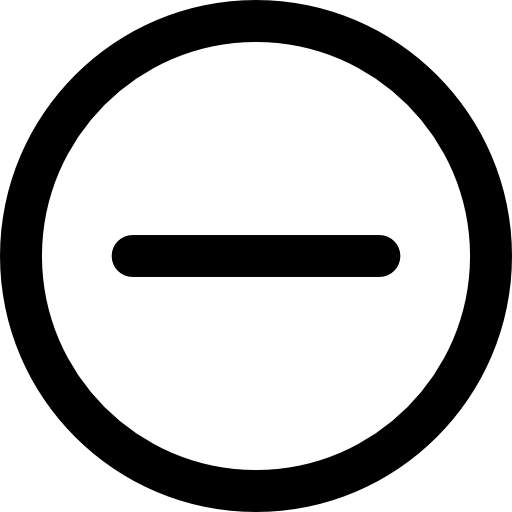
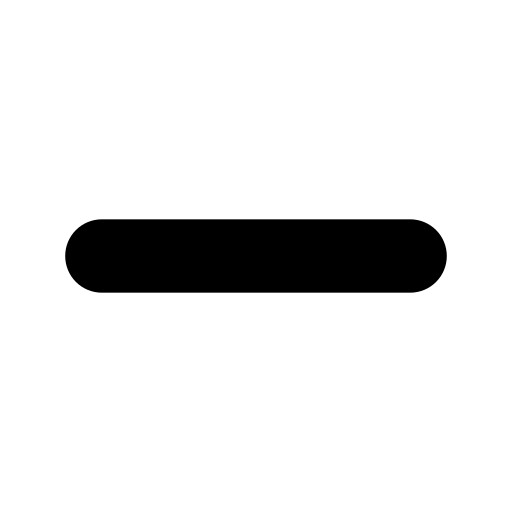
Fix

Changed region(s): [[0.0, 0.0, 1.0, 1.0], [0.125, 0.4062, 0.875, 0.5938]]

diff --git a/frontend/src/Pages/Cart.tsx b/frontend/src/Pages/Cart.tsx
@@ -197,7 +197,7 @@ const Cart = () => {
   return (
     <>
       <div className="min-h-[70vh]">
-        <div className="max-w-5xl mx-auto px-4 sm:px-6 py-8">
+        <div className="max-w-2xl mx-auto px-4 sm:px-6 py-8">
           <div className="mb-8">
             <h1 className="font-bold text-2xl text-ink">Your Cart</h1>
           </div>
@@ -215,7 +215,10 @@ const Cart = () => {
               {cart.map((item: any) => {
                 if (!item.productId) return null;
                 return (
-                  <div key={item._id} className="card p-4  bg-[#F3E6D5] sm:p-5">
+                  <div
+                    key={item._id}
+                    className="card p-4  bg-[#FFF9F2] sm:p-5 border-2 border-[#800020] rounded-2xl"
+                  >
                     <div className="flex flex-col sm:flex-row sm:items-center gap-5">
                       <div className="flex items-center gap-4 flex-1 min-w-0">
                         <img
@@ -224,19 +227,20 @@ const Cart = () => {
                           className="w-20 h-20 object-cover rounded-lg bg-paper shrink-0"
                         />
 
-                        <div className=" flex flex-col">
+                        <div className="flex flex-col">
+                          {/* Product Price and Title  */}
                           <div className="min-w-0">
                             <h2 className="font-semibold text-ink truncate">
-                              <span className="font-bold">Product Title: </span>
                               {item.productId.title}
                             </h2>
-                            <p className="text-sm text-ink-soft mt-1">
-                              {item.productId.price}
+                            <p className="text-sm text-ink-soft  font-light">
+                              Rs.{item.productId.price}
                             </p>
                           </div>
 
-                          <div className="h-6 w-fit border border-line rounded-lg px-2 mt-2">
-                            <div className="flex h-full items-center gap-3">
+                          {/* Buttons  */}
+                          <div className="h-7 w-fit border border-line rounded-md mt-2">
+                            <div className="flex h-full items-center px-2 gap-3">
                               <button
                                 type="button"
                                 onClick={() =>
@@ -254,7 +258,7 @@ const Cart = () => {
                                 onClick={() =>
                                   increaseQuantity(item.productId._id)
                                 }
-                                className="w-5 h-5 flex items-center justify-center text-ink-soft"
+                                className="w-4 h-3 flex items-center justify-center text-ink-soft"
                               >
                                 <IncrementBtn />
                               </button>
@@ -270,9 +274,9 @@ const Cart = () => {
                       </div>
                       <button
                         onClick={() => removeItem(item.productId._id)}
-                        className="text-sm bg-red-700 text-white px-4 py-2 rounded-lg hover:bg-red-800 transition-colors w-full sm:w-auto"
+                        className="text-sm bg-[#800020] text-white px-4 py-2 rounded-lg hover:bg-red-800 transition-colors w-full sm:w-auto"
                       >
-                        Delete
+                        Remove item
                       </button>
                     </div>
                   </div>
